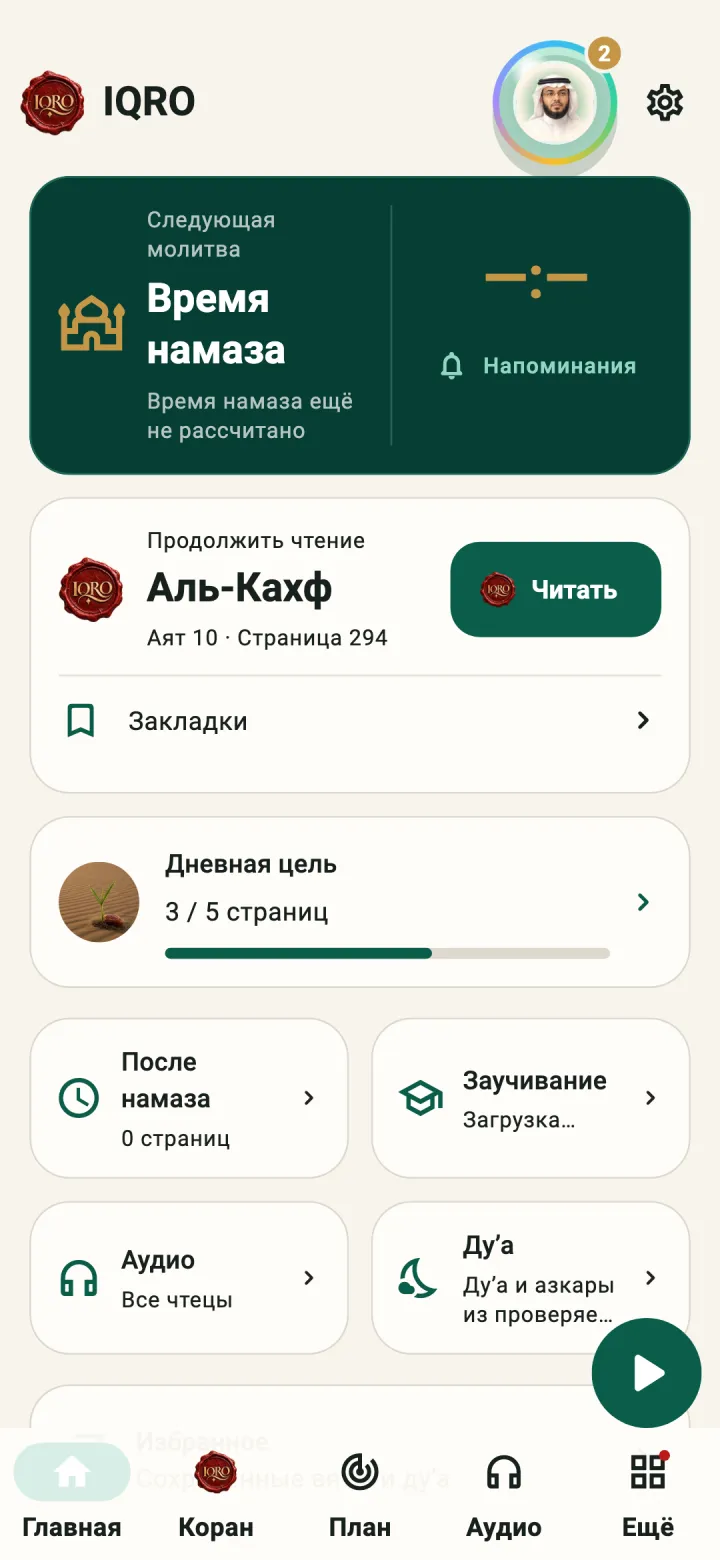
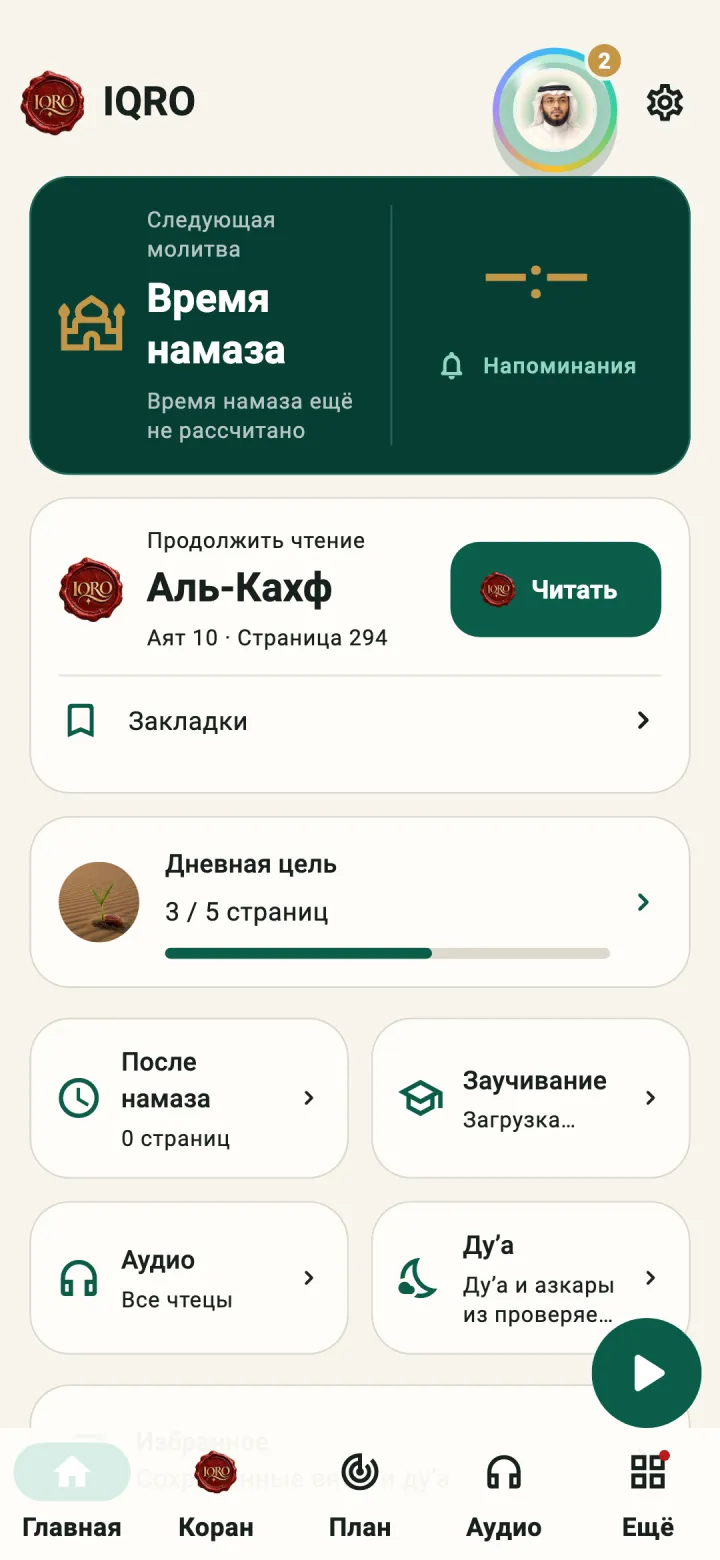
fix(app): keep the bubble's bob clear of the status bar

Changed region(s): [[0.6722, 0.0, 0.8556, 0.1231]]

diff --git a/clients/iqro_mobile/test/features/announcement_widgets_test.dart b/clients/iqro_mobile/test/features/announcement_widgets_test.dart
@@ -131,9 +131,13 @@ void main() {
     );
     expect(badge.height, 22);
     expect(badge.width, greaterThanOrEqualTo(22));
-    // Beside the settings button, not over it or the page.
+    // Beside the settings button, not over it, the status bar or the page.
     final settings = tester.getRect(find.byIcon(Icons.settings));
-    expect(tester.getRect(_bubble).right, lessThanOrEqualTo(settings.left));
+    final bubble = tester.getRect(_bubble);
+    final bar = tester.getRect(find.byType(AppBar));
+    expect(bubble.right, lessThanOrEqualTo(settings.left));
+    expect(bubble.top, greaterThanOrEqualTo(bar.top));
+    expect(bubble.bottom, lessThanOrEqualTo(bar.bottom + 8));
     expect(
       tester.getSemantics(find.bySemanticsLabel('Новое: 2. Открыть')),
       matchesSemantics(

diff --git a/clients/iqro_mobile/lib/features/announcements/announcement_bubble.dart b/clients/iqro_mobile/lib/features/announcements/announcement_bubble.dart
@@ -61,6 +61,8 @@ class _AnnouncementBubbleHostState extends State<AnnouncementBubbleHost> {
             showWhenUnlinked: false,
             targetAnchor: Alignment.center,
             followerAnchor: Alignment.center,
+            // Its bob rises up to 8 px: kept clear of the status bar.
+            offset: const Offset(0, 4),
             child: const AnnouncementBubble(),
           ),
         ),
